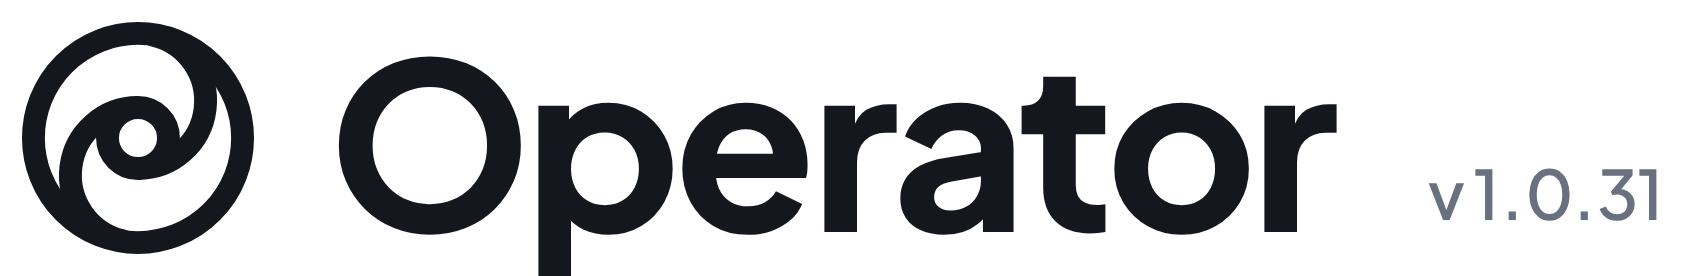
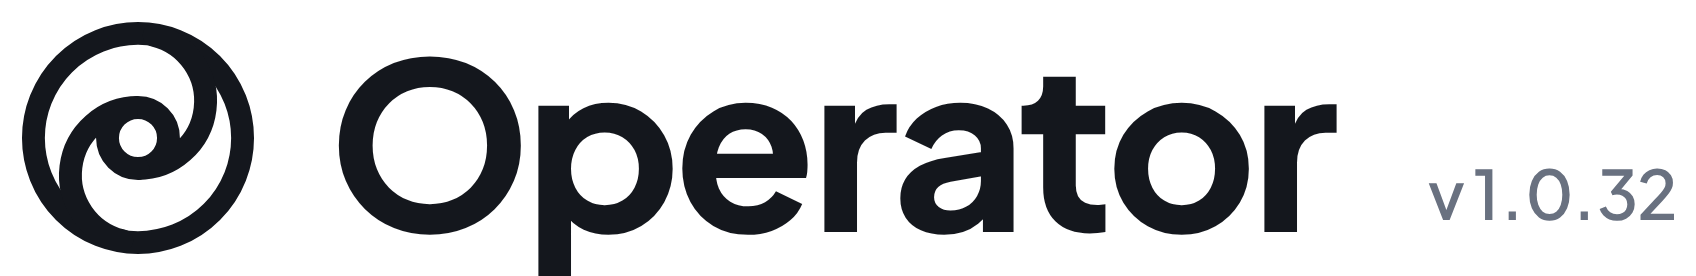
docs: v1.0.32 README — badges, mobile shot, changelog, lockup

diff --git a/README.md b/README.md
@@ -1,7 +1,7 @@
 <p>
   <picture>
     <source media="(prefers-color-scheme: dark)" srcset="docs/img/operator-lockup-dark.png">
-    <img src="docs/img/operator-lockup-light.png" height="72" alt="Operator v1.0.31">
+    <img src="docs/img/operator-lockup-light.png" height="72" alt="Operator v1.0.32">
   </picture>
 </p>
 <p><b>General-purpose computer using agent</b></p>
@@ -9,6 +9,9 @@
 <p>
   <img src="https://img.shields.io/github/languages/top/jeffbai996/operator" alt="top language">
   <img src="https://img.shields.io/badge/python-3.11+-3776ab" alt="python">
+  <img src="https://img.shields.io/badge/agents-Claude%20%C2%B7%20GPT%20%C2%B7%20Gemini-8a63d2" alt="agent runtimes">
+  <img src="https://img.shields.io/badge/auth-subscription%2C%20no%20API%20keys-2ea44f" alt="subscription auth">
+  <img src="https://img.shields.io/badge/license-source--available-lightgrey" alt="license">
 </p>
 
 <p>
@@ -24,10 +27,12 @@
 <p><sub><i>A live run — left: the interleaved thinking + action trace reasoning over what it sees; right: the actual Chrome it's driving, streamed frame-by-frame over CDP. Mid-run messages steer the agent without killing the turn.</i></sub></p>
 
 <p align="center">
-  <img src="docs/img/operator-tables.png" width="460" alt="The agent reports back — markdown tables render natively in the chat">
+  <img src="docs/img/operator-tables.png" width="430" alt="The agent reports back — markdown tables render natively in the chat">
+  &nbsp;&nbsp;
+  <img src="docs/img/operator-mobile.png" width="300" alt="The phone cockpit — full-viewport splash, category pills, saved-task cards">
 </p>
 
-<p><sub><i>The report-back — agent answers render as real markdown in the chat, tables included (new in v1.0.31): bordered, rounded, sideways-scrolling when they overflow the rail.</i></sub></p>
+<p><sub><i>Left: the report-back — agent answers render as real markdown in the chat, tables included: bordered, rounded, sideways-scrolling when they overflow the rail. Right: the phone cockpit — the same launchpad as a full-viewport takeover, pills summoning task cards, installable to the home screen as an app (PWA).</i></sub></p>
 
 ---
 
@@ -69,12 +74,12 @@ Operator detects whichever you have and drives the browser with it. An API-key
 fallback is documented in `.env.example`, but driving a browser over the API is
 expensive (a screenshot per step) — the logged-in CLI path is strongly preferred.
 
-> **Status:** **v1.0.31** — recent highlights: chat markdown grows real
-> pipe-table rendering (ASCII-art fences scroll instead of wrapping to soup),
-> the Operator mark becomes the favicon, the animated splash loader, and the
-> chat spinner, an About card rides the splash status ring, the phone cockpit
-> gets a ground-up splash refactor, and three viewport bugs — the resize
-> strobe, the letterbox chin, cross-device aspect fights — die at the root.
+> **Status:** **v1.0.32** — recent highlights: a full light-mode contrast
+> pass (down to theme-following scrollbars via `color-scheme`), a chat
+> renderer that survives malformed model output (stuttered/unterminated
+> fences, naked ASCII grids → real tables), frames that net the full stage
+> width (the scrollbar's viewport shave is measured and compensated in the
+> emulation override), and restart-free style deploys via template hot-reload.
 
 ## What it does
 
@@ -175,14 +180,16 @@ Standalone: `./start.sh` (or `python app.py`) serves the cockpit at `http://127.
 
 ## Changelog
 
+**v1.0.32** — **the light-mode siege + a renderer that survives malformed model output**. A full contrast pass lands light mode for real: the missing surface token that rendered user bubbles dark-on-dark, a darkened muted text tier, the live trace verb re-set in the reading face, a truer attention-blinker yellow, scrollbars that follow the theme via `color-scheme`, and the fullscreen canvas finally following the theme instead of framing light mode in black. The chat renderer grows resilience for malformed model output: `+---+` ASCII grids render as real tables even *outside* code fences (some models stutter their fences and dump grids into prose), empty fences render nothing, and an unterminated trailing fence renders as text instead of swallowing the rest of the message. Frames net the full stage width now — the vertical scrollbar's ~15px viewport shave is measured in device units and compensated in the emulation override (the persistent left/right pillarbox) — and the emulated capture clips to the page's actual laid-out body, so body-min-width sites under a profile page zoom keep their right edge. The composer can't be mangled by deleting a multi-line draft in one go (inline grow styles reset outright — iPad Safari outlives the CSS clamp), and the model picker row is pinned to the painted input height so a three-line draft can't spill onto it. Style/template deploys are restart-free (template hot-reload) — every restart used to blank the live feed to a placeholder for a few seconds, which read as random black screens.
+
 **v1.0.31** — **bots can talk in tables + the shared viewport learns whose aspect it is**. Chat markdown grows real pipe-table rendering — bordered, rounded corners, sideways-scrolling when a table overflows the rail, host-page table styling neutralized inside bubbles — and tabular code fences (ASCII `+---+` art, box-drawing characters) render unwrapped with horizontal scroll while prose code keeps word-wrapping. The chat scroller tops out in an 18px fade so bubbles melt out under the status card instead of hard-clipping. Three viewport bugs die at the root: the per-navigation clear+apply pulse (force-desktop now overwrites stale metrics instead of clearing first — the visible resize strobe on display-scaled hosts), the letterbox chin (captures clip to whichever viewport actually rendered the frame — the CSS layout viewport under emulation, the device viewport native, detected per frame), and viewport ownership (the cockpit sends a per-tab client id, so a backgrounded phone tab can no longer re-aspect the shared browser out from under the active desktop viewer). Light mode reclaims the splash-ring hover card and the wordmark hover cue.
 
 **v1.0.30** — **the About card, the mobile refactor, and geometric state marks**. Clicking the splash status ring opens an About card — logo, wordmark, and version on one baseline, rights line, brand foot — animated open/close with a backdrop that no longer clicks through to the splash. The phone cockpit gets its real refactor: the splash is a fixed full-viewport takeover above the sheet (no more painting under it), the ring/theme/close controls pinned as one top row, the hero dead-centered until a pill tap animates it up, and saved-task cards hidden on entry until summoned. The chat's finished-state ✓/✕/⏹ become geometric masked glyphs matched to the flat UI, saved-task examples grow by six per category (every card on a unique site), resumed threads deliver their boot context exactly once, and web pages stay in dark mode through a run instead of strobing light.
 
-**v1.0.29** — **the canonical Operator mark: favicon + animated splash logo**. The PWA/tab icon becomes the Operator mark itself, generated reproducibly rather than hand-authored. The same mark lands on the launchpad as a status ring: a green arc sweeps while the feed connects, then closes into a full ring — the loader is the logo assembling, not a spinner that gets swapped for one — and thereafter the ring is a health readout: amber while connecting or hung, pulsing red when the browser backend is down, all driven off the cockpit's existing state machine. Hovering it plays a greet. The chat's per-task spinner becomes the mark too — a halted spin: a fast 360°, an inhale-exhale hold, another full turn — with its viewBox cropped to the glyph's own bounds and the box sized in em of the verb beside it, so it holds proportion at every chat scale. The status card's ring runs the same language. A pivot bug dies with it: a px `transform-origin` on an SVG child resolves against the viewport, not the element, so the mark orbited a corner and swung out of frame every turn.
-
 <details>
-<summary><b>Earlier 1.0.x releases</b> (v1.0.0 – v1.0.28)</summary>
+<summary><b>Earlier 1.0.x releases</b> (v1.0.0 – v1.0.29)</summary>
+
+**v1.0.29** — **the canonical Operator mark: favicon + animated splash logo**. The PWA/tab icon becomes the Operator mark itself, generated reproducibly rather than hand-authored. The same mark lands on the launchpad as a status ring: a green arc sweeps while the feed connects, then closes into a full ring — the loader is the logo assembling, not a spinner that gets swapped for one — and thereafter the ring is a health readout: amber while connecting or hung, pulsing red when the browser backend is down, all driven off the cockpit's existing state machine. Hovering it plays a greet. The chat's per-task spinner becomes the mark too — a halted spin: a fast 360°, an inhale-exhale hold, another full turn — with its viewBox cropped to the glyph's own bounds and the box sized in em of the verb beside it, so it holds proportion at every chat scale. The status card's ring runs the same language. A pivot bug dies with it: a px `transform-origin` on an SVG child resolves against the viewport, not the element, so the mark orbited a corner and swung out of frame every turn.
 
 **v1.0.28** — **native `<select>` dropdowns work again + a run of interface polish**. A click on a native `<select>` used to open the OS-drawn popup, whose option list lives outside the page — so the CDP-dispatched option click landed on nothing and the value never changed (a regression from moving clicks to raw input events for a connection-stability fix). Now a click on a select renders an in-page, clickable option overlay the input pipeline can actually hit, only for selects, leaving every other click untouched. Alongside it: the chat, status card, disclaimer, saved-tasks heading, and input placeholder move to the reading typeface while the step-trace verbs stay in the UI sans; the model picker sizes to its selected name and re-measures on zoom so the name never clips; the send button holds the input's bottom-right at a stable size as the draft grows, with even space above and below the placeholder; a scroll trap where the cursor landing on a code block froze the chat is gone (each block forwards wheel and touch scroll to the log); and the History menu item gets a stroked clock icon.
 
